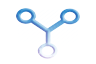
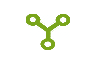
beautify ui; fix can not get large file transfer for long time

Changed region(s): [[0.1562, 0.125, 0.8438, 0.9375]]

diff --git a/DLAccessory/DLChatTableViewCtrl.m b/DLAccessory/DLChatTableViewCtrl.m
@@ -43,11 +43,11 @@
         NSDictionary* cdicUserInfo = acNoti.userInfo;
         MCPeerID* cpeerIdTo = [cdicUserInfo objectForKey:k_chat_to];
         MCPeerID* cpeerIdFrom = self.cdicPeerInfoFrom[k_peer_id];
-//        NSNumber* cnumberMsgId = cdicUserInfo[k_chat_msg_id];
         
         if ([[cpeerIdFrom displayName] isEqualToString:[cpeerIdTo displayName]]) {
-            /*
-            NSPredicate* cpredicateMsgId = [NSPredicate predicateWithFormat:@"(%K == %@)", k_chat_msg_id, [cnumberMsgId stringValue]];
+            NSNumber* cnumberMsgId = cdicUserInfo[k_chat_msg_id];
+ 
+            NSPredicate* cpredicateMsgId = [NSPredicate predicateWithFormat:@"(%K == %d)", k_chat_msg_id, [cnumberMsgId intValue]];
             NSArray* carrList = [self.cmutarrChatList filteredArrayUsingPredicate:cpredicateMsgId];
             if (carrList && [carrList count] > 0) {
                 NSUInteger uiMsgIndex = [self.cmutarrChatList indexOfObject:[carrList firstObject]];
@@ -55,8 +55,8 @@
             }else {
                [self.cmutarrChatList addObject:cdicUserInfo];
             }
-            */
-            [self.cmutarrChatList addObject:cdicUserInfo];
+            
+            //[self.cmutarrChatList addObject:cdicUserInfo];
 
             dispatch_async(dispatch_get_main_queue(), ^(void){
                 [self.ctableViewChat reloadData];
@@ -228,7 +228,7 @@
 //    [_ccViewChatInput.ctextViewInput addObserver:self forKeyPath:@"sRectBoundContent" options:NSKeyValueObservingOptionNew | NSKeyValueObservingOptionOld context:nil];
     [self.view addSubview:_ccViewChatInput];
     
-     UIView* cviewBg = [[UIView alloc] initWithFrame:CGRectMake(0.0f, 0.0f, CGRectGetWidth(self.view.bounds), 20.0f)];
+     UIView* cviewBg = [[UIView alloc] initWithFrame:CGRectMake(0.0f, 0.0f, CGRectGetWidth(self.view.bounds), 1.0f)];
     [cviewBg setBackgroundColor:[UIColor clearColor]];
     self.ctableViewChat.tableFooterView = cviewBg;
 	// Do any additional setup after loading the view.
@@ -350,7 +350,7 @@
         NSData* cdataTxt = [cstrText dataUsingEncoding:NSUTF8StringEncoding];
         NSUInteger uiUsedLength = [cdataTxt length];
         
-        u_int32_t uiMsgId = lround([[NSDate date] timeIntervalSince1970]);
+        u_int32_t uiMsgId = (u_int32_t)lround([[NSDate date] timeIntervalSince1970]);
 
         T_PACKAGE_HEADER tPackageHeader;
         tPackageHeader._u_l_package_type = enum_package_type_short_msg;
@@ -478,7 +478,7 @@
     
 }
 -(void)scrollChatToBottom {
-    if ([self.ctableViewChat contentSize].height >= CGRectGetHeight(self.view.bounds) * 0.5f) {
+    if ([self.ctableViewChat contentSize].height >= CGRectGetHeight(self.ctableViewChat.bounds)  - k_height_keyboard) {
         NSIndexPath* cIndexPath = [NSIndexPath indexPathForRow: [self.cmutarrChatList count] - 1 inSection: 0];
         [self.ctableViewChat scrollToRowAtIndexPath: cIndexPath atScrollPosition: UITableViewScrollPositionBottom animated: YES];
     }        
@@ -515,10 +515,13 @@
     }
     
     T_PACKAGE_HEADER tPackageHeader;
+    u_int32_t uiSessionId = (u_int32_t)lround([[NSDate date] timeIntervalSince1970]);
+
     tPackageHeader._u_l_package_type = enum_package_type_audio;
     tPackageHeader._u_l_package_size = (int32_t)(sizeof(T_PACKAGE_HEADER) + uiUsedLength);
     tPackageHeader._u_l_package_length = (int32_t)uiUsedLength;
     tPackageHeader._u_l_current_offset = (int32_t)sizeof(T_PACKAGE_HEADER);
+    tPackageHeader._u_l_msg_id = uiSessionId;
     
     NSData* cdataHeader = [NSData dataWithBytes:&tPackageHeader length:sizeof(tPackageHeader)];
     
@@ -837,7 +840,7 @@
     NSError* cError = nil;
     BOOL bSendFlag = YES;
     
-    u_int32_t uiSessionId = lround([[NSDate date] timeIntervalSince1970]);
+    u_int32_t uiSessionId = (u_int32_t)lround([[NSDate date] timeIntervalSince1970]);
     for (; uiLoop < uiLoopCount ;  uiLoop ++) {
         [cmutdata setLength:0];
         T_PACKAGE_HEADER tPackageHeader;
@@ -922,6 +925,9 @@
 
 #pragma mark - chat callback 
 -(void)didRequestPlayerVideo:(NSDictionary*)acdicInfo {
+    if (![acdicInfo objectForKey:k_chat_msg]) {
+        return;
+    }
     MPMoviePlayerViewController* cMoviePlayerViewCtrl = nil;;
     NSLog(@"-----%@", acdicInfo[k_chat_msg_media_url]);
     NSURL* curl = [NSURL fileURLWithPath:acdicInfo[k_chat_msg_media_url]];
@@ -931,10 +937,15 @@
     [self presentMoviePlayerViewControllerAnimated:cMoviePlayerViewCtrl];
 }
 -(void)didRequestShowImage:(NSDictionary*)acdicInfo {
-    
+    if (![acdicInfo objectForKey:k_chat_msg]) {
+        return;
+    }
 }
 -(void)didRequestShowLocation:(NSDictionary *)acdicInfo {
     
+    if (![acdicInfo objectForKey:k_chat_msg]) {
+        return;
+    }
     DLMapViewCtrl* ccMapViewCtrl = [[DLMapViewCtrl alloc] init];
     ccMapViewCtrl.cdicInfo = acdicInfo;
     NSString* cstrLocation = [[NSString alloc] initWithData:[acdicInfo objectForKey:k_chat_msg] encoding:NSUTF8StringEncoding];

diff --git a/DLAccessory/DLTableCellChat.m b/DLAccessory/DLTableCellChat.m
@@ -219,9 +219,10 @@
         _cimageViewAudio.hidden = NO;
         NSLog(@"msg type is audio");
         _clableMsg.hidden = YES;
-        if (!_c_aduio_player) {
+        _c_aduio_player = nil;
+        NSData* cData = self.cdicInfo[k_chat_msg];
+        if (!_c_aduio_player && cData) {
             NSError* cError = nil;
-            NSData* cData = self.cdicInfo[k_chat_msg];
             //            NSLog(@"playing ---- data length is %lu", (unsigned long)[cData length]);
             _c_aduio_player = [[AVAudioPlayer alloc] initWithData:cData error:&cError];
             _c_aduio_player.delegate = self;
@@ -244,8 +245,11 @@
         }
         self.cimageViewMsgImage.hidden = NO;
         NSData* cdata = self.cdicInfo[k_chat_msg];
-        UIImage* cimage = [UIImage imageWithData:cdata];
-        self.cimageViewMsgImage.image = cimage;
+        if (cdata) {
+            UIImage* cimage = [UIImage imageWithData:cdata];
+            self.cimageViewMsgImage.image = cimage;
+        }
+       
         
     }else if([cnumberMsgType intValue] == enum_package_type_video) {
         _clableMsg.hidden = YES;
@@ -266,34 +270,20 @@
 
         
        NSString* cstrTempUrl = [self.cdicInfo objectForKey:k_chat_msg_media_url];
-        /*
-        if (!_c_movie_player_ctr) {
-            _c_movie_player_ctr = [[MPMoviePlayerController alloc] initWithContentURL:[NSURL fileURLWithPath:cstrTempUrl]];
-        }else {
-            [_c_movie_player_ctr setContentURL:[NSURL fileURLWithPath:cstrTempUrl]];
-        }
-        [_c_movie_player_ctr play];
+        if (cstrTempUrl) {
+            AVAsset* casset = [AVAsset assetWithURL:[NSURL fileURLWithPath:cstrTempUrl]];
+            AVAssetImageGenerator* cAssetImageGenerator = [AVAssetImageGenerator assetImageGeneratorWithAsset:casset];
+            CMTime tTimeActually;
+            NSError* cError = nil;
+            CGImageRef rImageFirstFrame = [cAssetImageGenerator copyCGImageAtTime:CMTimeMake(1, 1) actualTime:&tTimeActually error:&cError];
+            if (!cError) {
+                self.cimageViewMsgVideoFirstFrame.image = [UIImage imageWithCGImage:rImageFirstFrame];
+                CGImageRelease(rImageFirstFrame);
+            }else {
+                NSLog(@"%@", [cError description]);
+            }
 
-        [_c_movie_player_ctr requestThumbnailImagesAtTimes:@[ [NSValue valueWithCMTime:CMTimeMake(0, 0)] ] timeOption:MPMovieTimeOptionNearestKeyFrame];
-         */
-        
-        AVAsset* casset = [AVAsset assetWithURL:[NSURL fileURLWithPath:cstrTempUrl]];
-        /*
-        NSArray* carrList = [casset tracks];
-        for (AVAssetTrack* cAssetTrack in carrList) {
-            NSLog(@"%@:%@", [cAssetTrack mediaType], [[cAssetTrack formatDescriptions] description]);
-        }*/
-        AVAssetImageGenerator* cAssetImageGenerator = [AVAssetImageGenerator assetImageGeneratorWithAsset:casset];
-        CMTime tTimeActually;
-        NSError* cError = nil;
-        CGImageRef rImageFirstFrame = [cAssetImageGenerator copyCGImageAtTime:CMTimeMake(1, 1) actualTime:&tTimeActually error:&cError];
-        if (!cError) {
-            self.cimageViewMsgVideoFirstFrame.image = [UIImage imageWithCGImage:rImageFirstFrame];
-            CGImageRelease(rImageFirstFrame);
-        }else {
-            NSLog(@"%@", [cError description]);
         }
-        
         self.cimageViewMsgVideoFirstFrame.hidden = NO;
     } else if([cnumberMsgType intValue] == enum_package_type_location) {
         if (!self.cimageViewMsgLocation) {

diff --git a/DLAccessory/DLMPViewCtrl.m b/DLAccessory/DLMPViewCtrl.m
@@ -266,10 +266,7 @@
      "k_receiving_file_size" = "Size:";
      */
     NSMutableData* cmutdata = [self.cmutdicPeerMap objectForKey:[peerID displayName]];
-    if (!cmutdata) {
-        cmutdata = [[NSMutableData alloc] init];
-        [self.cmutdicPeerMap setObject:cmutdata forKey:[peerID displayName]];
-    }
+    
 
     
     
@@ -289,9 +286,25 @@
         puPackage->_u_l_package_type == enum_package_type_video ||
         puPackage->_u_l_package_type == enum_package_type_image) {
         NSData* cdataMsg = [data subdataWithRange:NSMakeRange(sizeof(T_PACKAGE_HEADER), puPackage->_u_l_package_length)];
+        
+        if (!cmutdata) {
+            cmutdata = [[NSMutableData alloc] init];
+            [self.cmutdicPeerMap setObject:cmutdata forKey:[peerID displayName]];
+            NSDictionary* cdicChatItem = @{k_chat_from:peerID,
+                                           k_chat_to:self.cpeerId,
+                                           k_chat_msg_type:@(puPackage->_u_l_package_type),
+                                           k_chat_date: @([[NSDate date] timeIntervalSince1970]),
+                                           k_chat_msg_id:@(puPackage->_u_l_msg_id)
+                                           };
+            [[NSNotificationCenter defaultCenter] postNotificationName:k_noti_chat_msg_increase object:nil userInfo:cdicChatItem];
+            [[NSNotificationCenter defaultCenter] postNotificationName:k_noti_chat_msg object:nil userInfo:cdicChatItem];
+        }
+        
 //        NSLog(@"data size is %lu", (unsigned long)[cdataMsg length]);
         NSLog(@"msg id is %d", puPackage->_u_l_msg_id);
         [cmutdata appendData:cdataMsg];
+        
+        
     }
     
     dispatch_async(dispatch_get_main_queue(), ^(void){
@@ -351,9 +364,10 @@
                                        k_chat_msg:cmutData,
                                        k_chat_msg_type:@(puPackage->_u_l_package_type),
                                        k_chat_date: @([[NSDate date] timeIntervalSince1970]),
-                                       k_chat_msg_media_url:cstrMediaUrl
+                                       k_chat_msg_media_url:cstrMediaUrl,
+                                       k_chat_msg_id:@(puPackage->_u_l_msg_id)
                                        };
-        [[NSNotificationCenter defaultCenter] postNotificationName:k_noti_chat_msg_increase object:nil userInfo:cdicChatItem];
+//        [[NSNotificationCenter defaultCenter] postNotificationName:k_noti_chat_msg_increase object:nil userInfo:cdicChatItem];
         [[NSNotificationCenter defaultCenter] postNotificationName:k_noti_chat_msg object:nil userInfo:cdicChatItem];
 
         
@@ -770,7 +784,7 @@
      }else {
      NSLog(@"tranfer complete");
      }
-     u_int32_t uiSessionId = lround([[NSDate date] timeIntervalSince1970]);
+     u_int32_t uiSessionId = (u_int32_t)lround([[NSDate date] timeIntervalSince1970]);
 
      NSData* cdataMedia = [NSData dataWithContentsOfURL:acUrl];
       NSDictionary*  cdicChatItem = @{

diff --git a/DLAccessory/DLAppDelegate.m b/DLAccessory/DLAppDelegate.m
@@ -25,7 +25,7 @@
 {
     self.window = [[UIWindow alloc] initWithFrame:[[UIScreen mainScreen] bounds]];
     self.window.backgroundColor = [UIColor clearColor];
-
+    
     _ccMpViewCtrl = [[DLMPViewCtrl alloc] init];
     
     UINavigationController* cCenterNavCt = [[DLNavigationCtrl alloc] init];
@@ -44,12 +44,13 @@
     cTabbarViewCtrl.viewControllers = @[cCenterNavCt, ccConversationNavCtrl];
     self.window.rootViewController = cTabbarViewCtrl;
     
-    [self.window makeKeyAndVisible];
     
     [[NSNotificationCenter defaultCenter] addObserver:self selector:@selector(actionNotiMsgReceive:) name:k_noti_chat_msg_decrease object:nil];
     [[NSNotificationCenter defaultCenter] addObserver:self selector:@selector(actionNotiMsgReceive:) name:k_noti_chat_msg_increase object:nil];
+    
+    [self.window makeKeyAndVisible];
 
-
+    //[self testFilterNumber];
     return YES;
 }
 -(void)actionNotiMsgReceive:(NSNotification*)acNoti {
@@ -187,6 +188,19 @@ typedef struct{
     NSData* cdataString = [cmutData subdataWithRange:NSMakeRange(sizeof(T_X), [[cstrX dataUsingEncoding:NSUTF8StringEncoding] length])];
     NSString* cstrTest = [[NSString alloc] initWithData:cdataString encoding:NSUTF8StringEncoding];
     NSLog(@"====%@", cstrTest);
-
+}
+-(void)testFilterNumber{
+    NSMutableArray* cmutArrNumber = [[NSMutableArray alloc ] init];
+    for (int i = 0; i < 60; i ++) {
+        NSDictionary* cdicNumber = @{k_chat_msg_id:@(i)};
+        [cmutArrNumber addObject:cdicNumber];
+    }
+    NSPredicate* cPredicateFilter = [NSPredicate predicateWithFormat:@"(%K == %d)", k_chat_msg_id, 13];
+    NSArray* carrList = [cmutArrNumber filteredArrayUsingPredicate:cPredicateFilter];
+    if (carrList && [carrList count] > 0) {
+        NSLog(@"----%@", [carrList description]);
+    }
+   
+    
 }
 @end

diff --git a/DLAccessory/DLConversationListTableViewCtrl.m b/DLAccessory/DLConversationListTableViewCtrl.m
@@ -41,12 +41,16 @@
     NSPredicate* cPredicateFrom = [NSPredicate predicateWithFormat:@"(%K == %@)", k_chat_from_name,cstrPeerFrom];
     NSArray* carrPeople = [self.cmutarrConversations filteredArrayUsingPredicate:cPredicateFrom];
     if (carrPeople && [carrPeople count] > 0) {
+
         NSMutableDictionary* cmutdicItem = [carrPeople firstObject];
         NSMutableArray* cmutarrChatLit = [cmutdicItem objectForKey:k_chat_list];
-        /*
+//        NSLog(@"---msgs placeHolder  %@",  [cmutarrChatLit description]);
+//        NSLog(@"---msgs  %@",  [acNoti.userInfo description]);
+
+        
         NSNumber* cnumberMsgId = [acNoti.userInfo objectForKey:k_chat_msg_id];
         
-        NSPredicate* cpredicateMsgId = [NSPredicate predicateWithFormat:@"(%K= %@)", k_chat_msg_id, [cnumberMsgId stringValue]];
+        NSPredicate* cpredicateMsgId = [NSPredicate predicateWithFormat:@"(%K == %d)", k_chat_msg_id, [cnumberMsgId intValue]];
         NSArray* carrListMsg = [cmutarrChatLit filteredArrayUsingPredicate:cpredicateMsgId];
         if (carrListMsg && [carrListMsg count] > 0) {
             NSUInteger uiMsgIndex = [cmutarrChatLit indexOfObject:[carrListMsg firstObject]];
@@ -54,8 +58,8 @@
         }else {
            [cmutarrChatLit addObject:acNoti.userInfo];
         }
-         */
-        [cmutarrChatLit addObject:acNoti.userInfo];
+        
+//        [cmutarrChatLit addObject:acNoti.userInfo];
         [self.ctableView reloadData];
     }else {
         NSMutableDictionary* cmutDicConversation = [NSMutableDictionary dictionary];

diff --git a/DLAccessory/DLViewChatInput.m b/DLAccessory/DLViewChatInput.m
@@ -30,10 +30,11 @@
         [self addSubview:_cimageviewBg];
         
         _ctextViewInput = [[UITextView alloc] init];
-        _ctextViewInput.layer.cornerRadius = 2.0f;
+        _ctextViewInput.layer.cornerRadius = 6.0f;
+        
         _ctextViewInput.textContainerInset = UIEdgeInsetsMake(2.0f, 2.0f, 2.0f, 2.0f);
         _ctextViewInput.contentInset = UIEdgeInsetsMake(1.0f, 1.0f, 1.0f, 1.0f);
-        _ctextViewInput.layer.borderColor = [UIColor lightGrayColor].CGColor;
+        _ctextViewInput.layer.borderColor = [UIColor darkGrayColor].CGColor;
         _ctextViewInput.font = [[UIFont preferredFontForTextStyle:UIFontTextStyleBody] fontWithSize:20.0f];
         _ctextViewInput.layer.borderWidth = 1.0f;
         _ctextViewInput.returnKeyType = UIReturnKeySend;
@@ -103,6 +104,9 @@
         [self.idProtoViewChat performSelector:@selector(didSendTextMsg:) withObject:self];
     }
 }
+- (void)textViewDidChange:(UITextView *)textView {
+    [self performSelectorOnMainThread:@selector(computeContentBound) withObject:nil waitUntilDone:NO];
+}
 
 - (BOOL)textView:(UITextView *)textView shouldChangeTextInRange:(NSRange)range replacementText:(NSString *)text {
     
@@ -111,10 +115,6 @@
     if ([textView.text length] > self.uMaxNubmerOfCharacter) {
         bShouldChange = NO;
     }
-    if (bShouldChange) {
-        [self computeContentBound];
-    }
-    
     if([text isEqualToString:@"\n"]) {
         bShouldChange = NO;
         [self performSelector:@selector(actionSendMsg:) withObject:nil afterDelay:0.0f];

diff --git a/DLAccessory/library/common/Common.m b/DLAccessory/library/common/Common.m
@@ -571,14 +571,14 @@
                 cstrDay = [NSString stringWithFormat:@"%2ld分钟前",(long)iMinutesOffset];
             }
         }else {
-            cstrDay = [NSString stringWithFormat:@"今天 %02ld:%02ld", [cDateComponents hour], [cDateComponents minute]];
+            cstrDay = [NSString stringWithFormat:@"今天 %02ld:%02ld", (long)[cDateComponents hour], (long)[cDateComponents minute]];
         }
     }else if([cDateComponentsToday day] == [cDateComponents day] -1 ) {
-        cstrDay = [NSString stringWithFormat:@"昨天 %02ld:%02ld", [cDateComponents hour], [cDateComponents minute]];
+        cstrDay = [NSString stringWithFormat:@"昨天 %02ld:%02ld", (long)[cDateComponents hour],  (long)[cDateComponents minute]];
     }else if([cDateComponentsToday day] == [cDateComponents day]  - 2) {
-        cstrDay = [NSString stringWithFormat:@"前天 %2ld:%02ld", [cDateComponents hour], [cDateComponents minute]];
+        cstrDay = [NSString stringWithFormat:@"前天 %2ld:%02ld",  (long)[cDateComponents hour],  (long)[cDateComponents minute]];
     }else {
-        cstrDay = [NSString stringWithFormat:@"%02ld-%2ld %02ld:%02ld",[cDateComponents month],[cDateComponents day],[cDateComponents hour], [cDateComponents minute]];
+        cstrDay = [NSString stringWithFormat:@"%02ld-%2ld %02ld:%02ld", (long)[cDateComponents month], (long)[cDateComponents day], (long)[cDateComponents hour],  (long)[cDateComponents minute]];
     }
     [cdateFormatter release];
     //    //NSlog(@"%@", cstrDay);
